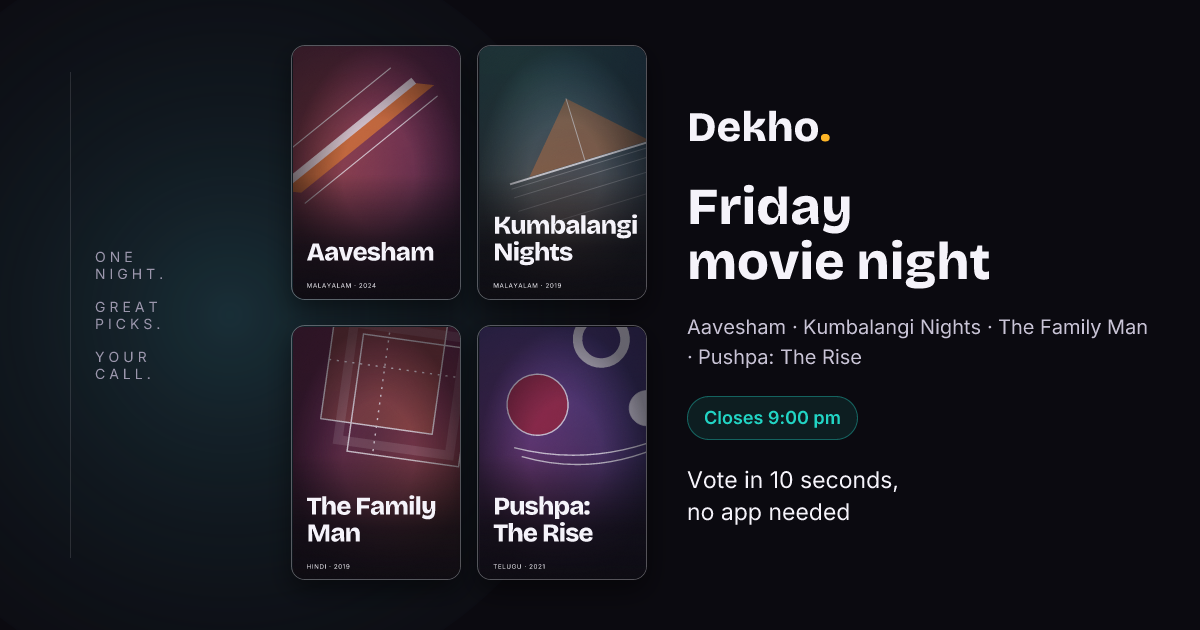
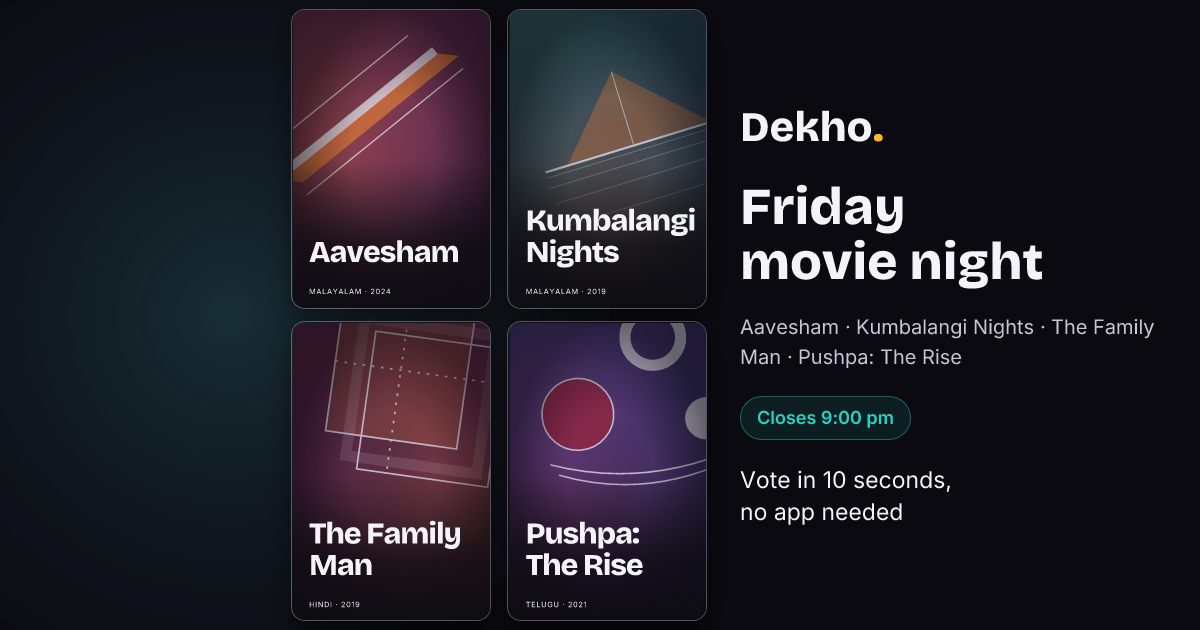
Enlarge crop-safe poll posters and remove left tagline

diff --git a/app/p/[id]/opengraph-image/route.tsx b/app/p/[id]/opengraph-image/route.tsx
@@ -24,11 +24,10 @@ export async function GET(request: Request, { params }: { params: Promise<{ id: 
   return new ImageResponse(
     <div style={{ display: 'flex', width: '100%', height: '100%', background: brand.colors.bg, color: brand.colors.text, fontFamily: 'Inter', position: 'relative', overflow: 'hidden' }}>
       <div style={{ position: 'absolute', width: 760, height: 760, left: -150, top: -65, borderRadius: 380, background: 'radial-gradient(circle, #21465099, #0B0A1000)' }}/>
-      <div style={{ position: 'absolute', left: 70, top: 72, width: 145, height: 486, borderLeft: '1px solid #F5F3FA20', display: 'flex', flexDirection: 'column', justifyContent: 'center', paddingLeft: 24, color: brand.colors.muted, fontSize: 14, letterSpacing: 4 }}><div style={{ display: 'flex', marginBottom: 16 }}>ONE NIGHT.</div><div style={{ display: 'flex', marginBottom: 16 }}>GREAT PICKS.</div><div style={{ display: 'flex' }}>YOUR CALL.</div></div>
       {titles.map((title, index) => {
         const slot = slots[index], fit = fitTitle(title.title, 252, 28, 45);
         return <div key={title.id} style={{ display: 'flex', position: 'absolute', ...slot, transform: `rotate(${titles.length === 4 ? 0 : (index - (titles.length - 1) / 2) * 2}deg)`, borderRadius: 14, overflow: 'hidden', border: '1px solid #F5F3FA50', boxShadow: '0 10px 24px #0007' }}>
-          <div style={{ display: 'flex', width: 300, height: 450, transform: 'scale(.5666667)', transformOrigin: 'top left', flexShrink: 0 }}>
+          <div style={{ display: 'flex', width: 300, height: 450, transform: `scale(${slot.width / 300})`, transformOrigin: 'top left', flexShrink: 0 }}>
             <GeneratedPosterSvg title={title} motifOverride={motifs[index]} definitionId={`poll-${index}`} showTypography={false}/>
             <div style={{ display: 'flex', flexDirection: 'column', position: 'absolute', left: 24, right: 24, bottom: 65, fontFamily: 'Bricolage Grotesque', fontWeight: 800, fontSize: fit.fontSize, lineHeight: 1.05, letterSpacing: -1.5 }}>
               {fit.lines.map((line, i) => <div style={{ display: 'flex' }} key={i}>{line}</div>)}
@@ -37,7 +36,7 @@ export async function GET(request: Request, { params }: { params: Promise<{ id: 
           </div>
         </div>;
       })}
-      <div style={{ display: 'flex', flexDirection: 'column', position: 'absolute', left: 687, top: 48, width: 465, height: 534, justifyContent: 'center' }}>
+      <div style={{ display: 'flex', flexDirection: 'column', position: 'absolute', left: 740, top: 48, width: 420, height: 534, justifyContent: 'center' }}>
         <div style={{ display: 'flex', fontFamily: 'Bricolage Grotesque', fontWeight: 800, fontSize: 42, marginBottom: 28 }}>{brand.name}<span style={{ color: brand.colors.marigold }}>.</span></div>
         <div style={{ display: 'flex', flexDirection: 'column', fontFamily: 'Bricolage Grotesque', fontSize: name.fontSize, fontWeight: 800, lineHeight: 1.05, marginBottom: 22 }}>
           {name.lines.map((line, i) => <div key={i} style={{ display: 'flex', whiteSpace: 'nowrap' }}>{line}</div>)}

diff --git a/lib/polls/og.ts b/lib/polls/og.ts
@@ -12,9 +12,9 @@ export function uniqueMotifs(titles: PosterTitle[]): OgMotif[] {
 // The centered WhatsApp square spans x=285..915. Every poster is inside it.
 export function posterSlots(count: number) {
   return Array.from({ length: count }, (_, i) => ({
-    left: count === 3 && i === 2 ? 384 : 291 + (i % 2) * 186,
-    top: count === 2 ? 187 : 45 + Math.floor(i / 2) * 280,
-    width: 170, height: 255,
+    left: count === 3 && i === 2 ? 399 : 291 + (i % 2) * 216,
+    top: count === 2 ? 165 : 9 + Math.floor(i / 2) * 312,
+    width: 200, height: 300,
   }));
 }
 export function pollNameLockup(name: string) {
@@ -24,7 +24,7 @@ export function pollNameLockup(name: string) {
     const score = Math.max(...pair.map(lineUnits));
     if (score < cost) { lines = pair; cost = score; }
   }
-  return { lines, fontSize: Math.min(52, 430 / Math.max(...lines.map(lineUnits)) * .9) };
+  return { lines, fontSize: Math.min(52, 390 / Math.max(...lines.map(lineUnits)) * .9) };
 }
 export function deadlineLabel(deadline: string) {
   return `Closes ${new Intl.DateTimeFormat('en-IN', { timeZone: 'Asia/Kolkata', hour: 'numeric', minute: '2-digit', hour12: true }).format(new Date(deadline)).toLowerCase()}`;
